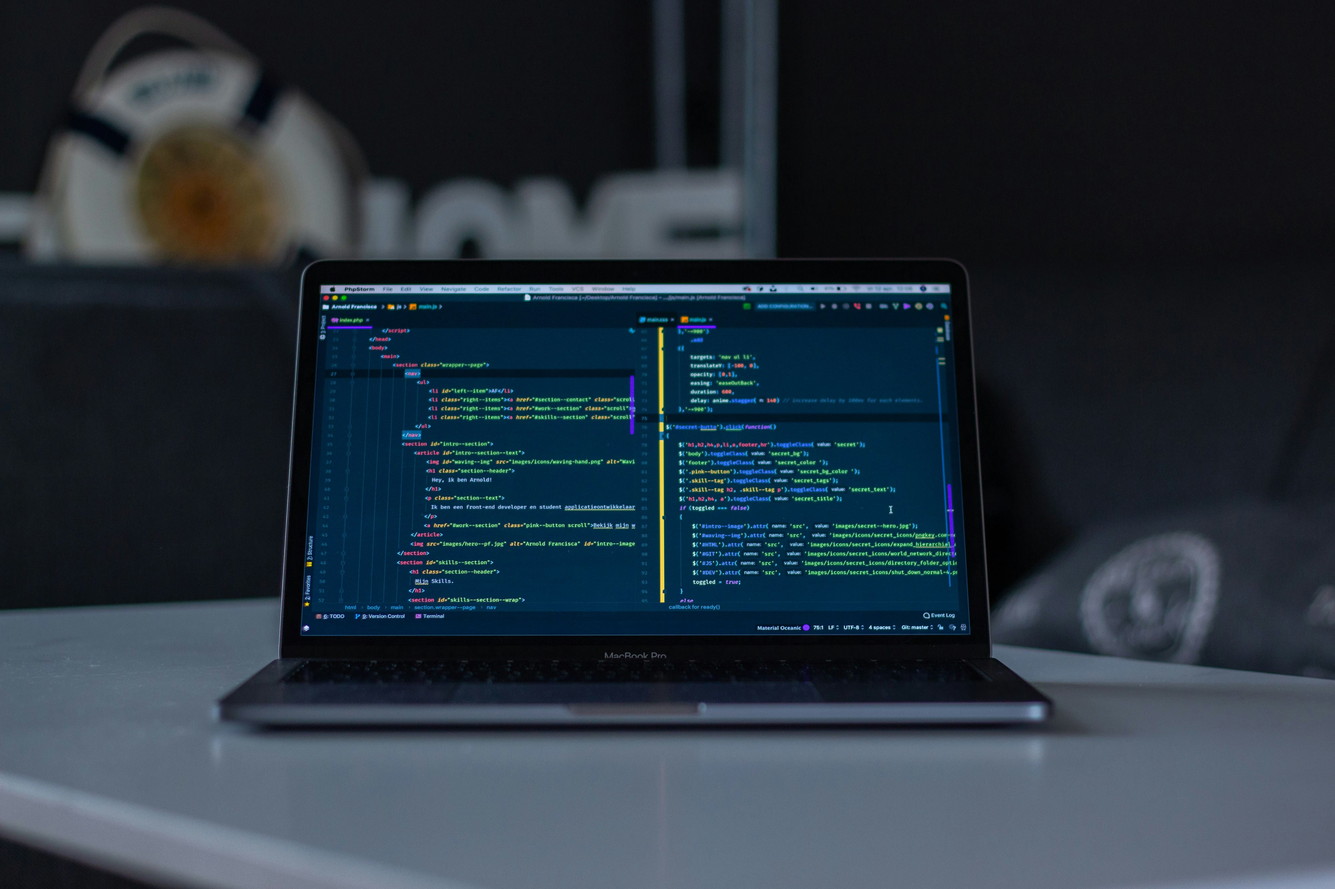
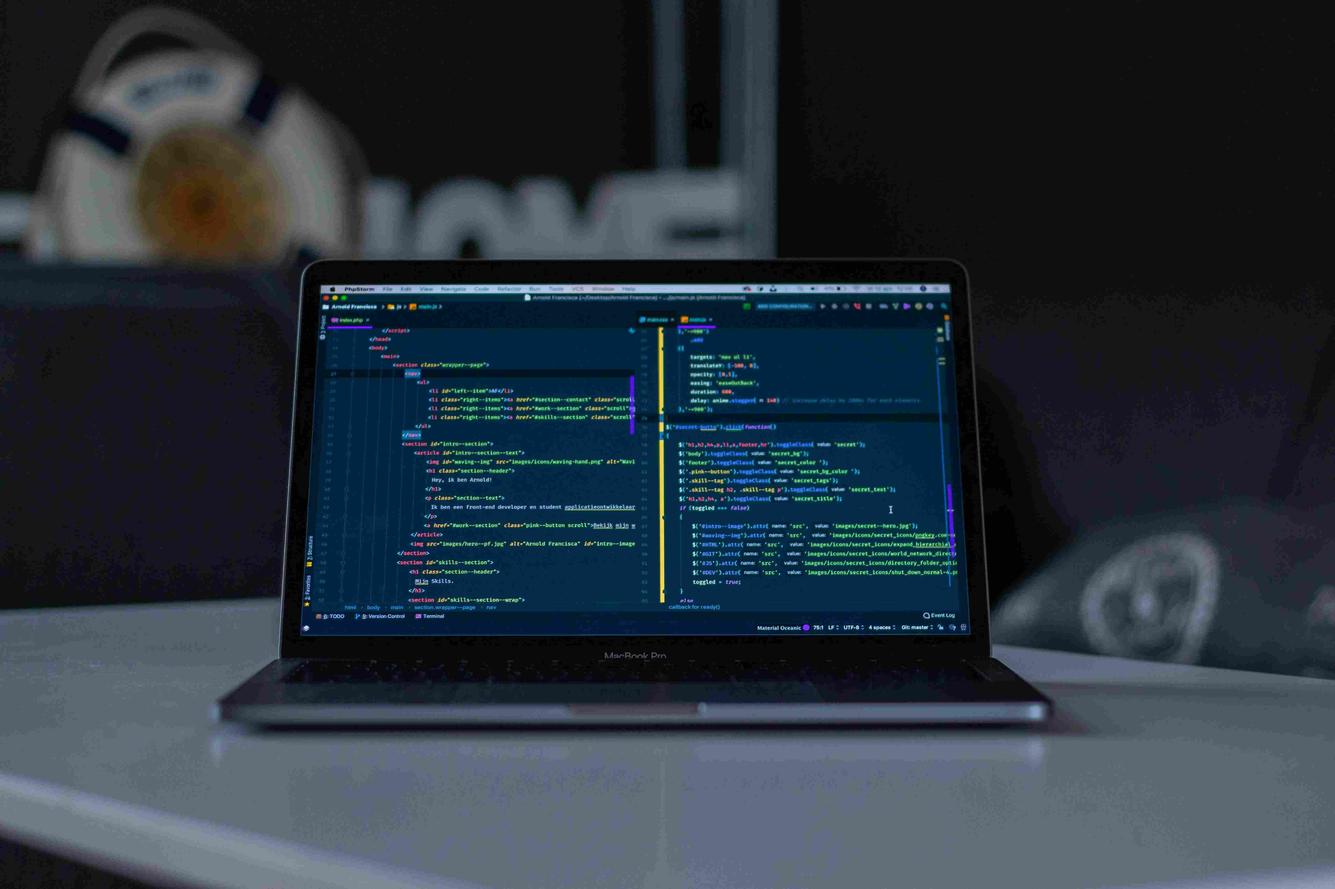
Compressed the images

diff --git a/journey.css b/journey.css
@@ -18,6 +18,7 @@
 .main-img {
     display: block;
     width: 100%;
+    max-width: 1600px;
     margin: 1.5em 0;
 }
 
@@ -25,4 +26,14 @@
     width: 85%;
     margin-left: auto;
     margin-right: auto;
+}
+
+/* Media Query */
+
+@media (min-width: 1024px) {
+    .main-img {
+        width: 85%;
+        margin-left: auto;
+        margin-right: auto;
+    }
 }
